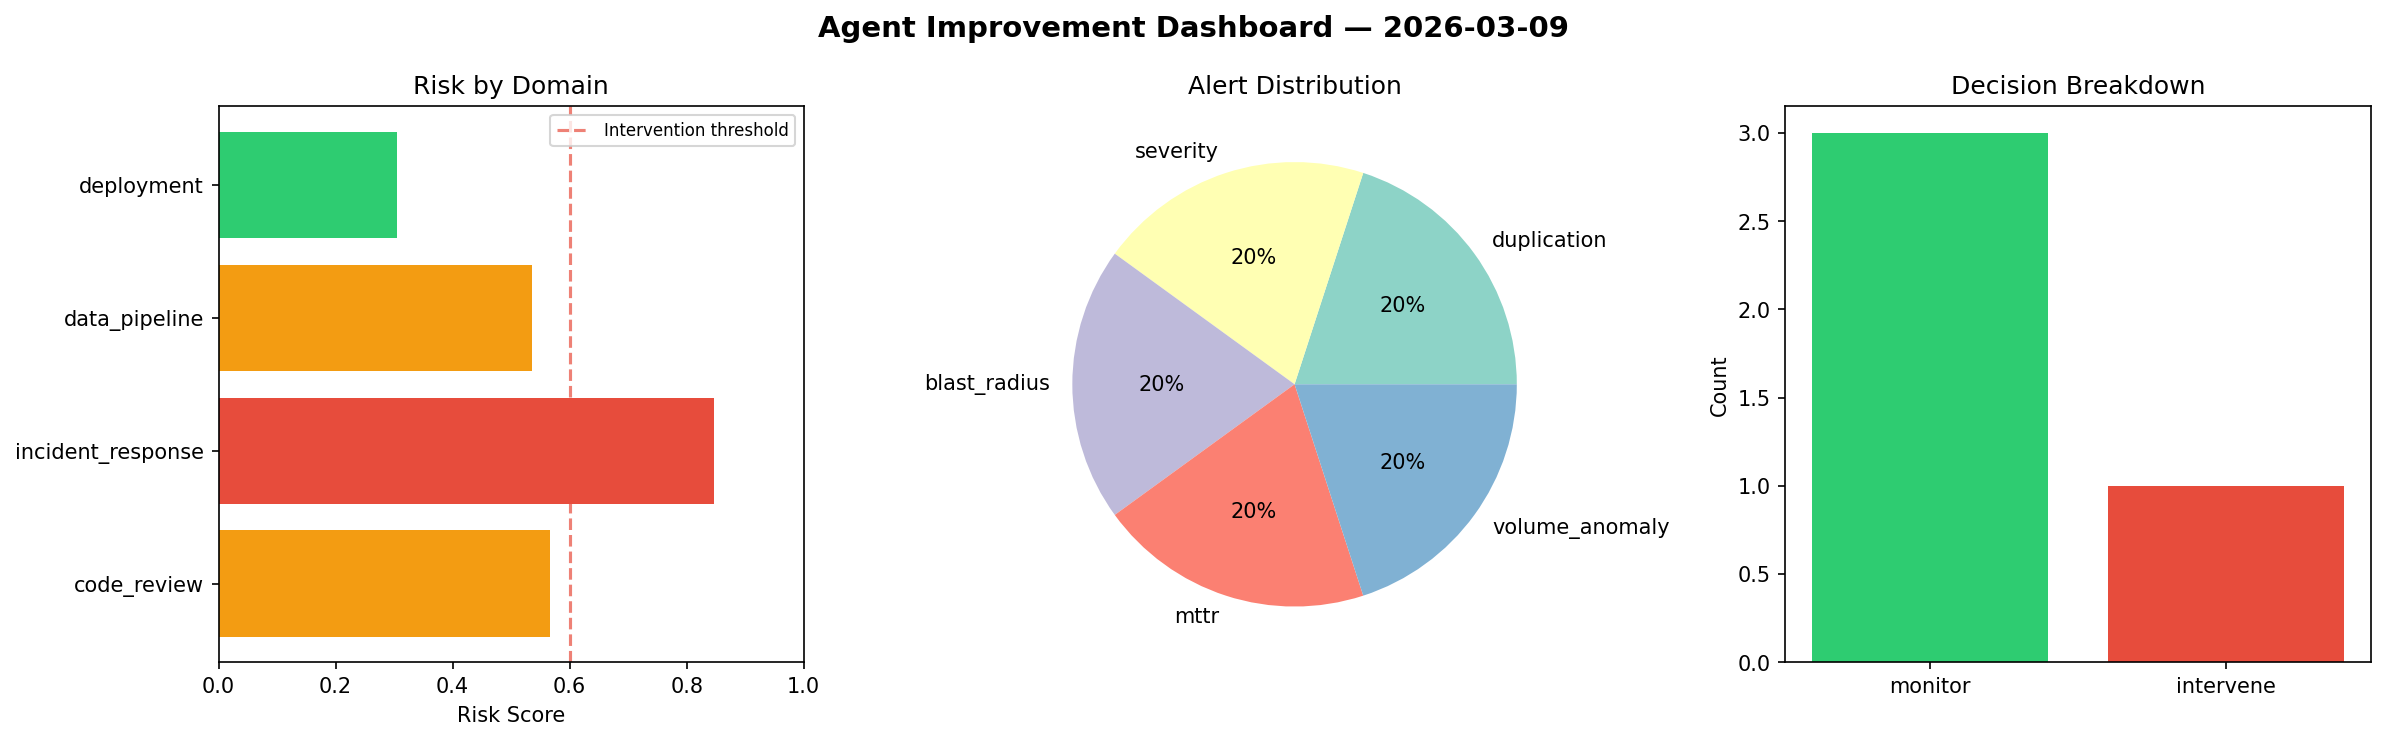
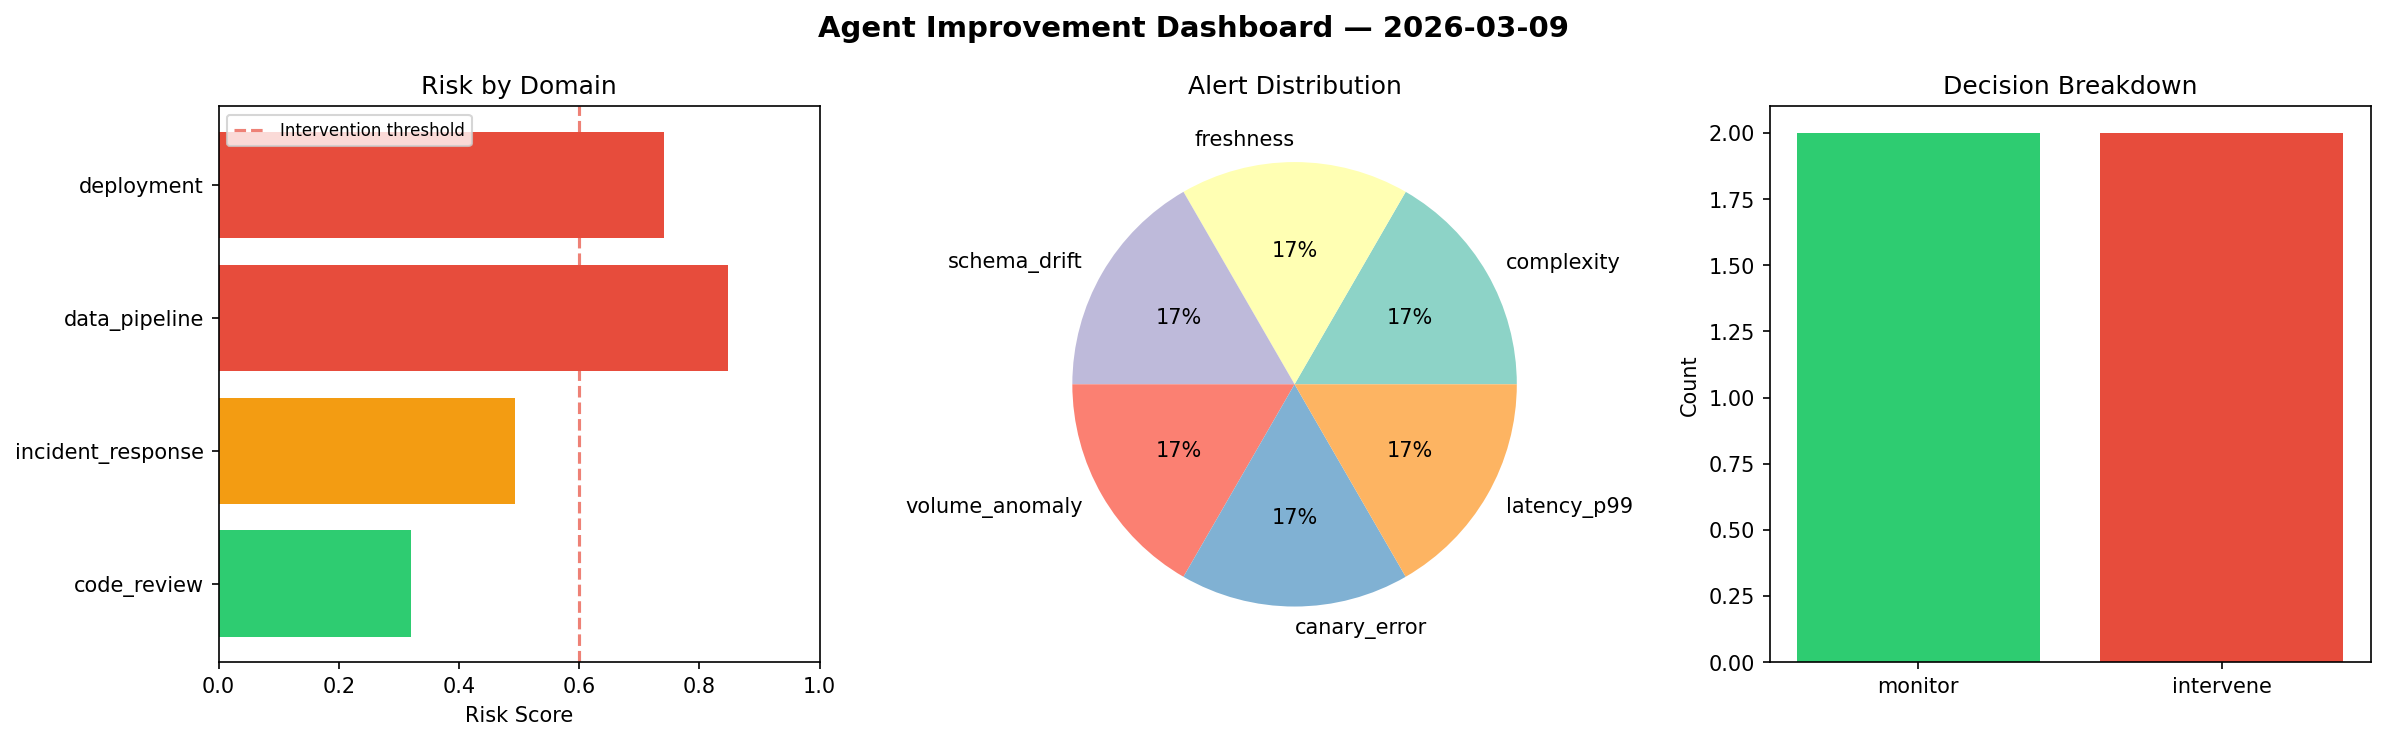
agent-improvement: daily cycle 2026-03-09T09:02

diff --git a/logs/2026-03-09.md b/logs/2026-03-09.md
@@ -1,6 +1,6 @@
 # Agent Improvement Report — 2026-03-09
 
-**Cycle ID:** `c86c7bfc` | **Avg Risk:** 0.5635 | **Interventions:** 1/4
+**Cycle ID:** `5cbc363d` | **Avg Risk:** 0.6003 | **Interventions:** 2/4
 
 ![Dashboard](2026-03-09_dashboard.png)
 
@@ -10,18 +10,18 @@
 
 | Domain | Risk Score | Decision | Alerts |
 |--------|-----------|----------|--------|
-| code_review | 0.5657 | monitor | duplication |
-| incident_response | 0.8473 | intervene | severity, blast_radius, mttr |
-| data_pipeline | 0.5353 | monitor | volume_anomaly |
-| deployment | 0.3055 | monitor | none |
+| code_review | 0.3206 | monitor | complexity |
+| incident_response | 0.4927 | monitor | none |
+| data_pipeline | 0.8474 | intervene | freshness, schema_drift, volume_anomaly |
+| deployment | 0.7406 | intervene | canary_error, latency_p99 |
 
 ## Delta vs Yesterday
 
 | Domain | Today | Yesterday | Change |
 |--------|-------|-----------|--------|
-| code_review | 0.5657 | 0.5646 | 📈 0.2% |
-| incident_response | 0.8473 | 0.6039 | 📈 40.3% |
-| data_pipeline | 0.5353 | 0.1742 | 📈 207.3% |
-| deployment | 0.3055 | 0.4296 | 📉 -28.9% |
+| code_review | 0.3206 | 0.5646 | 📉 -43.2% |
+| incident_response | 0.4927 | 0.6039 | 📉 -18.4% |
+| data_pipeline | 0.8474 | 0.1742 | 📈 386.5% |
+| deployment | 0.7406 | 0.4296 | 📈 72.4% |
 
-**Refinement:** `{'adjustment': 'maintain', 'trend': 'improving', 'window': 4}`
+**Refinement:** `{'adjustment': 'tighten_thresholds', 'trend': 'degrading', 'window': 4}`
